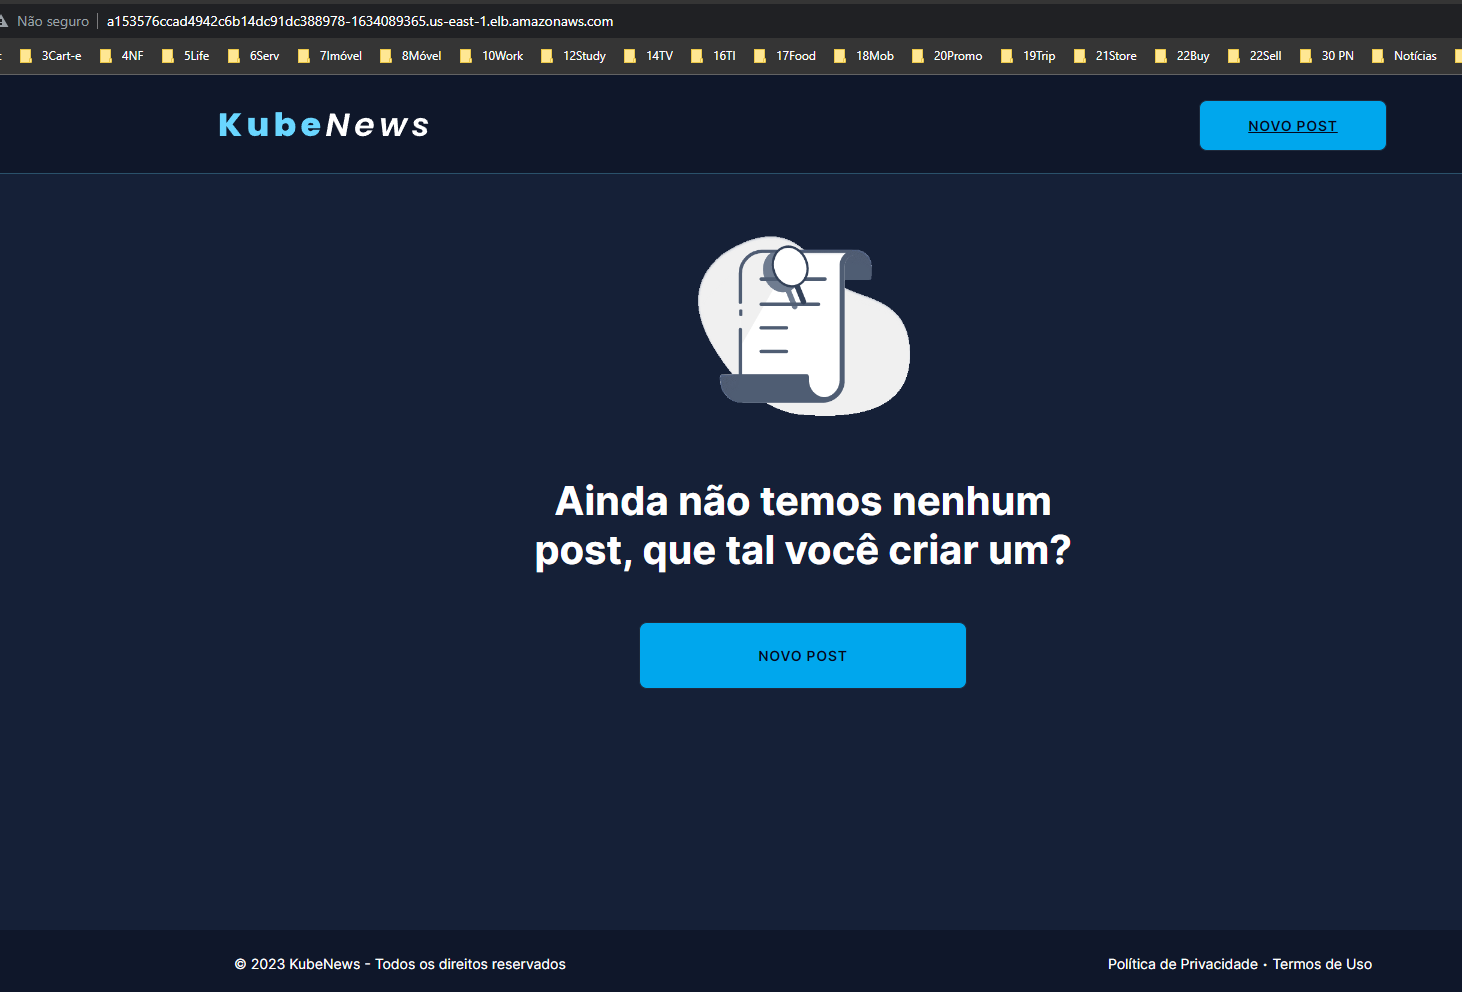
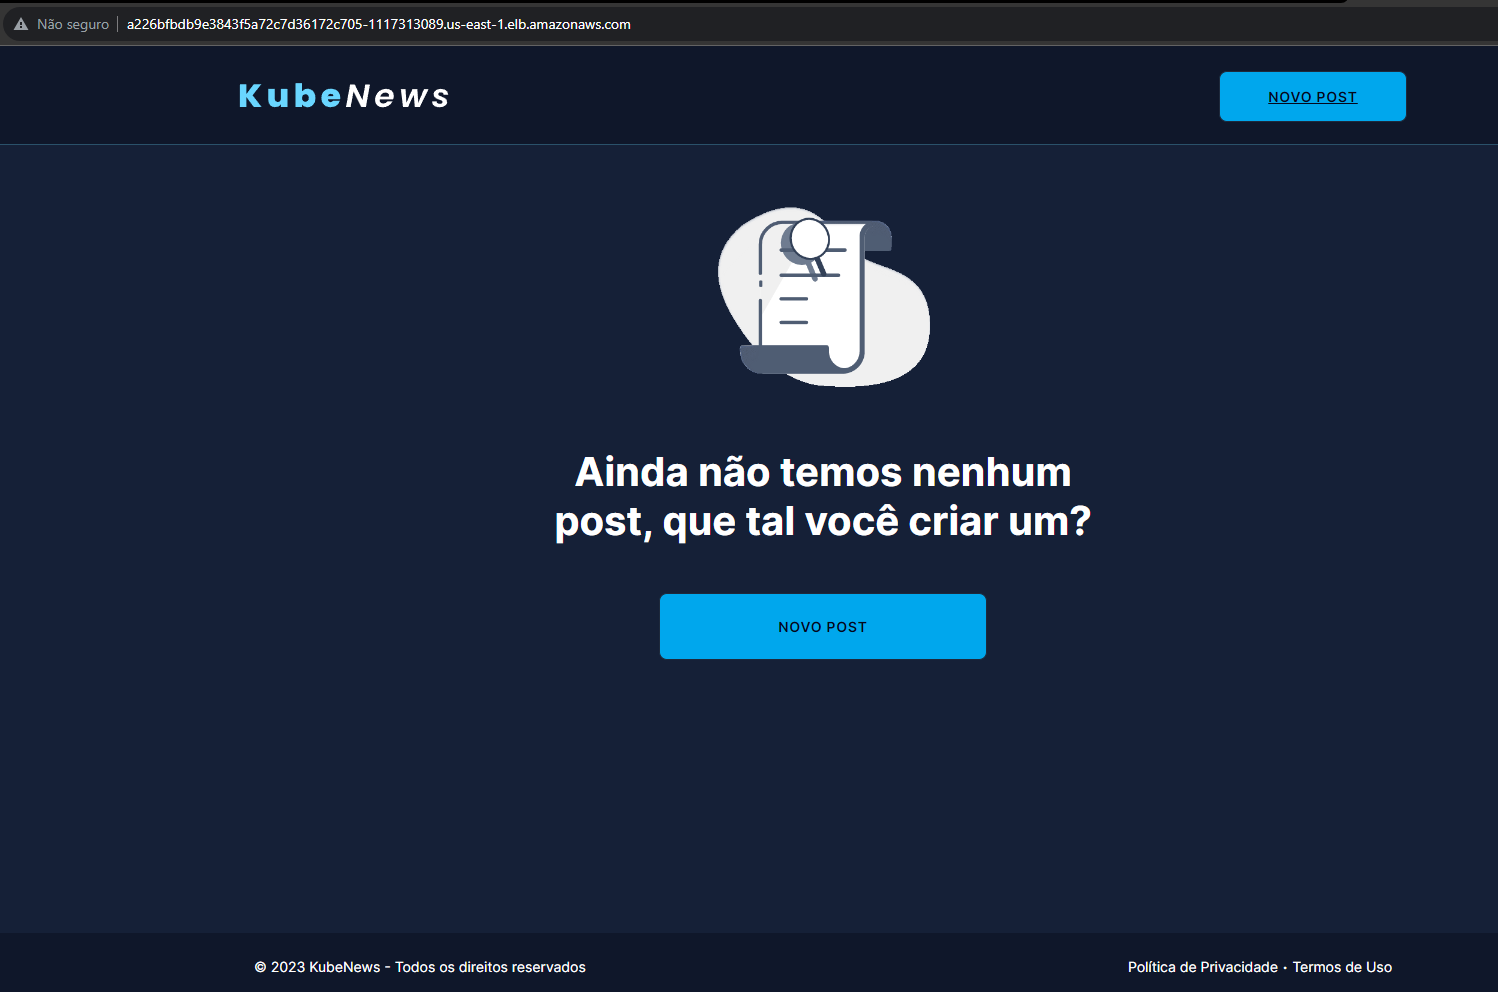
Upload course_081
Finalizando a aula 4 e todo o curso

diff --git a/outros/fabricio_veronez/devops/curso_081/README.md b/outros/fabricio_veronez/devops/curso_081/README.md
@@ -527,9 +527,9 @@ O segundo job, onde o pipeline de CD foi executado, conteve quantro steps. O pri
 
 Este Workflow automatizou toda a parte de deploy da aplicação e caso fosse feito alguma alteração na aplicação, o próprio **GitHub Actions** executava os pipelines para trocar a versão da aplicação em execução no cluster **Kubernetes**. Para que o Workflow fosse executado, uma trigger deveria indicada neste arquivo. A trigger determinada foi quando um Push para o **GitHub** do arquivo `./automation/resources/gbActions/start.txt` fosse realizada. Porém esse arquivo só seria construindo quando, no script de criação, a aula 4 fosse executada. Nesse arquivo, seria especificado qual versão da aplicação estava sendo desenvolvida e seria armazenado na sub-pasta `resources/gbActions`, mesma pasta onde o arquivo de Workflow foi elaborado. 
 
-A aula 4 no script de criação iniciou com a conexão do **Kubectl** da maquina física com o cluster **Kubernetes** já construído no serviço **AWS EKS**. Em seguida, foi feito uma cópia do arquivo de Workflow para pasta `.github\workflows` onde o **GitHub** armazena todos os arquivos de Workflow do repositório. O arquivo de trigger `start.txt` foi criado com o texto `V1` na sub-pasta `resources/gbActions`. Então a pasta corrente foi alterada para a do repositório de cursos (`course`) e comandos **Git** foram executados. Com o comando `git add` foi adicionado a área de staging o arquivo de Workflow que foi copiado para a pasta de `.github/workflows` e o arquivo de trigger `start.txt`. Após isso, foram executados os comandos `git commit` e `git push` para enviar as alterações para o repositório remoto no **GitHub**. Como o arquivo de trigger estava sofrendo um Push, que foi justamente a trigger estabelecida no arquivo de Workflow, e este arquivo de Workflow estava sendo enviado para pasta correta no **GitHub**, ele foi acionado e seus pipelines foram executados.
+A aula 4 no script de criação iniciou com a conexão do **Kubectl** da maquina física com o cluster **Kubernetes** já construído no serviço **AWS EKS**. Em seguida, foi alterado a imagem no arquivo `deployment3.yaml` trocando a imagem do repositório do professor (`fabricioveronez/kube-news:v1`) para do meu repositório (`pedroheeger/curso081_kube-news:v1`). Também foi feito uma cópia do arquivo de Workflow para pasta `.github\workflows` onde o **GitHub** armazena todos os arquivos de Workflow do repositório. O arquivo de trigger `start.txt` foi criado com o texto `V1` na sub-pasta `resources/gbActions`. Então a pasta corrente foi alterada para a do repositório de cursos (`course`) e comandos **Git** foram executados. Com o comando `git add` foi adicionado a área de staging o arquivo de Workflow que foi copiado para a pasta de `.github/workflows` e o arquivo de trigger `start.txt`. Após isso, foram executados os comandos `git commit` e `git push` para enviar as alterações para o repositório remoto no **GitHub**. Como o arquivo de trigger estava sofrendo um Push, que foi justamente a trigger estabelecida no arquivo de Workflow, e este arquivo de Workflow estava sendo enviado para pasta correta no **GitHub**, ele foi acionado e seus pipelines foram executados.
 
-Enquanto isso, no script de criação alguns segundos foram aguardados para que esse processo fosse executado pelo **GitHub** de forma automática. Após isso, todos os elementos do cluster foram verificados com o comando `kubectl get all` (Imagem 58) e a aplicação, em execução no cluster **Kubernetes**, pode ser acessada utilizando o IP Externo disponibilizado pelo `service` da aplicação no navegador da maquina física (Imagem 59). A imagem 60 mostra os pipelines concluídos. Enquanto na imagens 61 é possível visualizar as imagens construídas no repositório **Docker Hub**, nas versões `latest` e era para ser a versão `1`, mas como foram realizados vários testes com o mesmo arquivo Workflow, o número de execuções foi aumentando e portanto a imagem do **Docker** corresponde ao número da execução no exato momento. Por mais que fosse apagado o arquivo de Workflow, o **GitHub** mantem armazenado todo o histórico de execuções e então não reinicia a contagem. Para a contagem ser reiniciada teria que mudar o nome do arquivo.
+Enquanto isso, no script de criação alguns segundos foram aguardados para que esse processo fosse executado pelo **GitHub** de forma automática. Após isso, todos os elementos do cluster foram verificados com o comando `kubectl get all` (Imagem 58) e a aplicação, em execução no cluster **Kubernetes**, pode ser acessada utilizando o IP Externo disponibilizado pelo `service` da aplicação no navegador da maquina física (Imagem 59). A imagem 60 mostra os pipelines concluídos. Enquanto na imagen 61 é possível visualizar as imagens **Docker** construídas no repositório **Docker Hub**, nas versões `latest` e era para ser a versão `1`, mas como foram realizados vários testes com o mesmo arquivo Workflow, o número de execuções foi aumentando e portanto a imagem do **Docker** corresponde ao número da execução no exato momento, que no caso foi `20`. Por mais que fosse apagado o arquivo de Workflow, o **GitHub** mantem armazenado todo o histórico de execuções e então não reinicia a contagem. Para a contagem ser reiniciada teria que mudar o nome do arquivo.
 
 <div align="Center"><figure>
     <img src="./0-aux/img58.png" alt="img58"><br>
@@ -551,7 +551,7 @@ Enquanto isso, no script de criação alguns segundos foram aguardados para que 
     <figcaption>Imagem 61.</figcaption>
 </figure></div><br>
 
-Após o primeiro deploy, o próprio script de criação alterou o arquivo `header.ejs` que integra a aplicação, comentando a linha que contém o título `Kube-News` e também alterou o arquivo de trigger trocando o texto para `V2` para que ele pudesse sofrer um Push novamente. Então os comandos **Git** foram executados, porém no comando `git add`, dessa vez, foi adicionado o arquivo de trigger e o arquivo da aplicação que foi alterado, o arquivo de Workflow não teve alterações e por isso não foi adicionado. Em seguida, os comandos `git commit` e `git push` foram realizados e os arquivos enviados para o repositório remoto, acionando pela segunda vez os pipelines. Agora chegou na parte final, onde uma série de dois comandos eram executados intercaladamente, um solicitando que um tempo fosse aguardado e outro para exibição dos pods do cluster, que nesse momemnto estavam sendo alterados recebendo a nova versão da aplicação, como mostrado na imagem 62 abaixo. Por fim, o diretório corrente foi alterado para a pasta `automation`. Na imagem 63 é evidenciado a aplicação na versão 2, onde o título não aparece. Já a imagem 64 mostra o repositório **Docker Hub** com mais uma imagem criada, que deveria ser a versão `2`. Enquanto a imagem 65 é exibido este segundo pipeline concluído.
+Após o primeiro deploy, o próprio script de criação alterou o arquivo `header.ejs` que integrava a aplicação, comentando a linha que contém o título `Kube-News` e também alterou o arquivo de trigger trocando o texto para `V2` para que ele pudesse sofrer um Push novamente. Então os comandos **Git** foram executados, porém no comando `git add`, dessa vez, foi adicionado o arquivo de trigger e o arquivo da aplicação que foi alterado, o arquivo de Workflow não teve alterações e por isso não foi adicionado. Em seguida, os comandos `git commit` e `git push` foram realizados e os arquivos enviados para o repositório remoto, acionando pela segunda vez os pipelines. Na imagem 62 abaixo é exibido várias vezes os pods do cluster para mostrar que eles estavam sendo alterados para nova versão da aplicação. Por fim, o diretório corrente foi alterado para a pasta `automation`. Na imagem 63 é evidenciado a aplicação na versão 2, onde o título não aparece. Já a imagem 64 mostra o repositório **Docker Hub** com mais uma imagem criada, que deveria ser a versão `2`, mas foi versão `21`. Enquanto a imagem 65 é exibido este segundo pipeline concluído.
 
 <div align="Center"><figure>
     <img src="./0-aux/img62.png" alt="img62"><br>
@@ -568,11 +568,4 @@ Após o primeiro deploy, o próprio script de criação alterou o arquivo `heade
     <figcaption>Imagem 64.</figcaption>
 </figure></div><br>
 
-
-aws eks update-kubeconfig --name curso081Cluster --unset
-kubectl config --kubeconfig=C:\Users\pedro\.kube\config get-contexts
-kubectl config delete-context arn:aws:eks:us-east-1:005354053245:cluster/curso081Cluster
-
-
-a226bfbdb9e3843f5a72c7d36172c705-1117313089.us-east-1.elb.amazonaws.com
-https://a226bfbdb9e3843f5a72c7d36172c705-1117313089.us-east-1.elb.amazonaws.com/
+Com relação ao script de exclusão para essa aula, primeiro foi alterado para pasta do arquivo de manifesto do **Kubernetes** e a implatanção foi removida, mesmo ela tendo sido implantada pelo **GitHub**. Em seguida, foram verificados se existiam, se existissem eram removidos os arquivos de Workflow da pasta `.github/workflows`, ou seja, a cópia, e o arquivo `start.txt`, que era o arquivo de trigger. Após a remoção, as alterações de imagem **Docker** feita no arquivo `deployment3.yaml` foi desfeita, voltando para o repositório do professor, e a linha comentada no arquivo `header.ejs` era descomentada. O diretório foi alterado para o do repositório `course` e foi adicionado a área de staging os dois arquivos removidos e os dois arquivos modificados. Porém, em cada um deles, foi feita uma verificação para determinar se existiam e em qual estado ele se encontravam (`deleted`, `untracked`, `modified`). Então foi realizado o `git commit` e o `git push` para enviar essas alterações para o repositório remoto no **GitHub**, no qual o arquivo de Workflow não existia mais. Caso precise visualizar esse arquivo, utilize o arquivo original [curso_081.yaml](./automation/resources/gbActions/curso_081.yaml). Por fim, foi desconectado o **Kubectl** da maquina física **Windows** do cluster provisionado no serviço **AWS EKS** e o diretório corrente foi alterado para a pasta `automation`. Após a remoção da aula 4 foi necessário remover a infraestrutura na cloud através das aulas 3 etapa 2 ou 5 etapa 2, dependendo de qual tenha sido executada para construção da infraestrutura.
